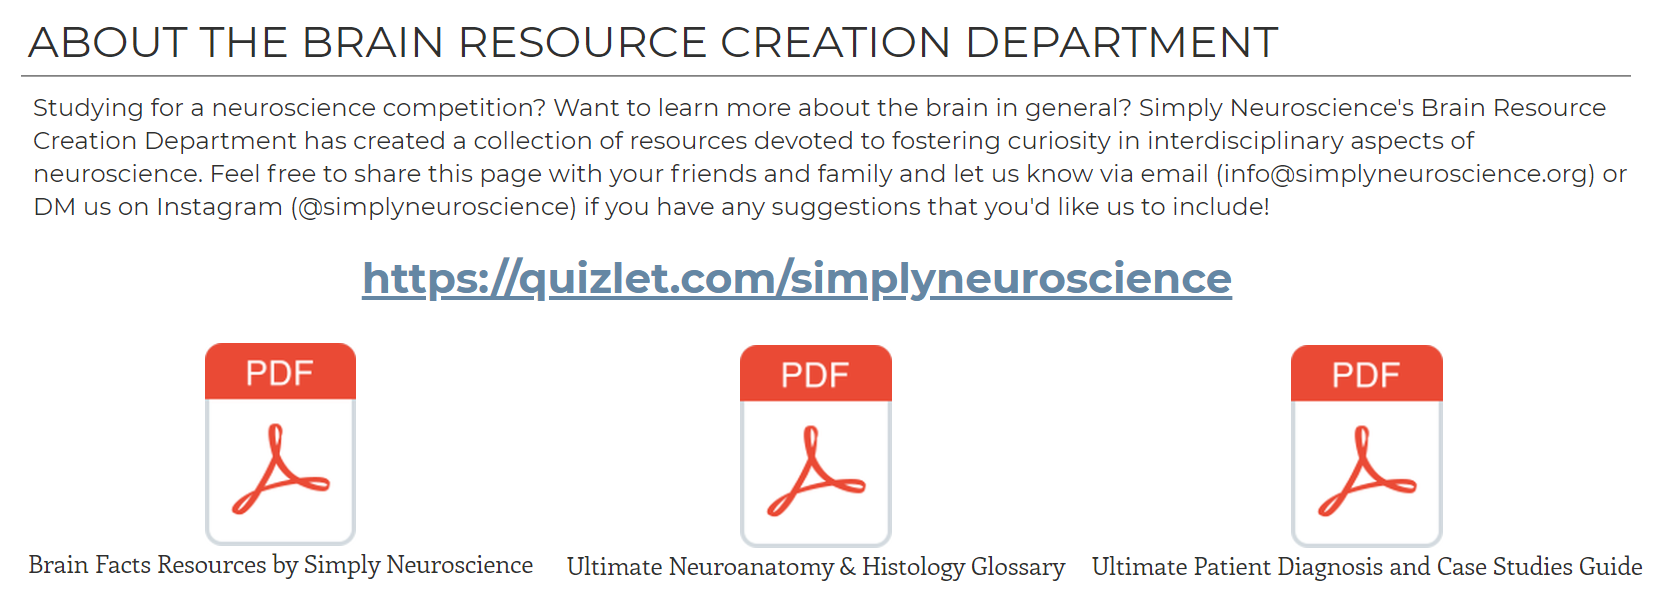
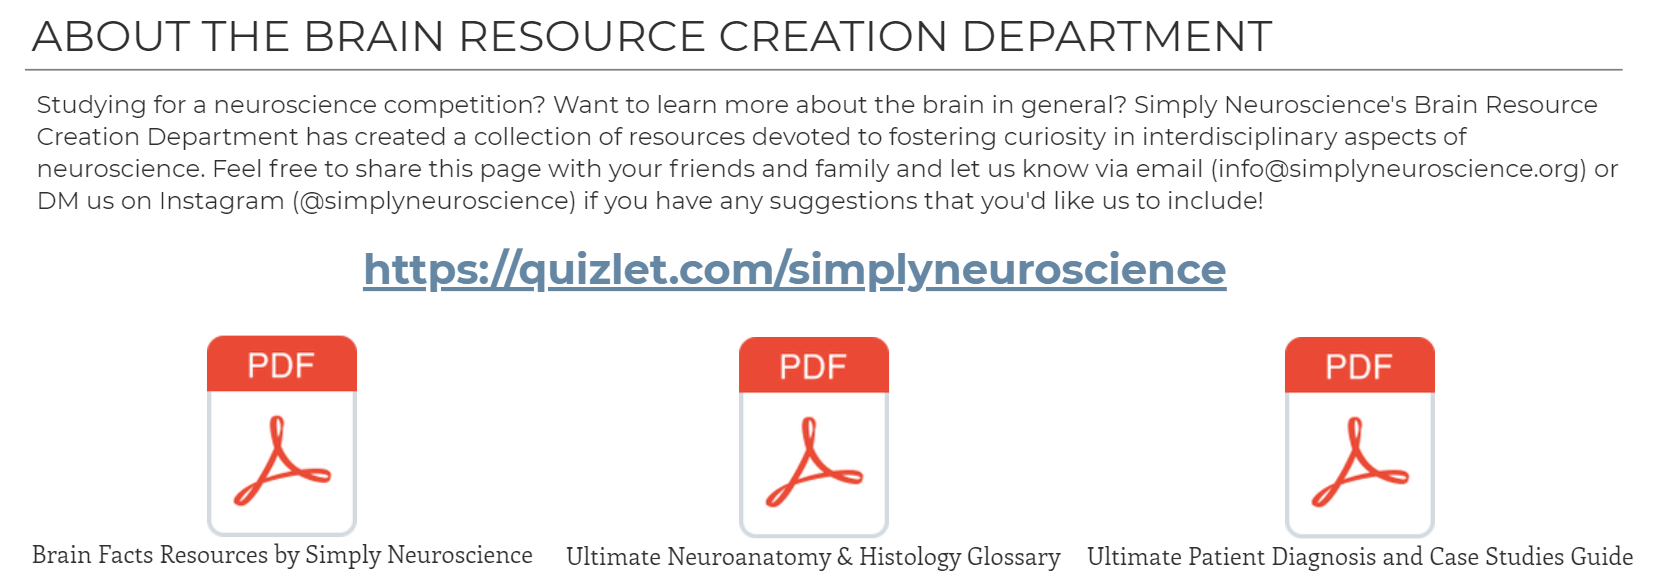
fix images

diff --git a/app/screens/Resources/BSR.js b/app/screens/Resources/BSR.js
@@ -14,16 +14,19 @@ function BSR(){
           <Image
             source={require("../../assets/quizlet.png")}
             style={styles.schedule}
+						resizeMode="contain"
           />
         </TouchableOpacity>
 
         <Image
           source={require("../../assets/brainbuilding.png")}
           style={styles.schedule2}
+					resizeMode="contain"
         />
         <Image
           source={require("../../assets/brainbuildinginfo.png")}
           style={styles.schedule3}
+					resizeMode="contain"
         />
       </ScrollView>
     </View>

diff --git a/app/screens/Resources/LPW.js b/app/screens/Resources/LPW.js
@@ -14,16 +14,19 @@ function LPW(){
           <Image
             source={require("../../assets/psp.png")}
             style={styles.schedule}
+						resizeMode="contain"
           />          
         </TouchableOpacity>
 
         <Image
           source={require("../../assets/ultimateguide.png")}
           style={styles.schedule2}
+					resizeMode="contain"
         />
         <Image
           source={require("../../assets/quiz.png")}
           style={styles.schedule3}
+					resizeMode="contain"
         />
       </ScrollView>
 

diff --git a/app/screens/Resources/WWR.js b/app/screens/Resources/WWR.js
@@ -14,6 +14,7 @@ function WWR(){
           <Image
             source={require("../../assets/aboutWWR.png")}
             style={styles.schedule}
+						resizeMode="contain"
           />          
         </TouchableOpacity>
 
@@ -21,6 +22,7 @@ function WWR(){
         <Image
           source={require("../../assets/howtostart.png")}
           style={styles.schedule2}
+					resizeMode="contain"
         />        
       </ScrollView>
 

diff --git a/app/screens/Resources/SCR.js b/app/screens/Resources/SCR.js
@@ -10,10 +10,12 @@ function SCR(){
       <Image
         source={require("../../assets/whatissc.png")}
         style={styles.schedule}
+				resizeMode="contain"
       />
       <Image
         source={require("../../assets/crispr.png")}
         style={styles.schedule2}
+				resizeMode="contain"
       />
       <TouchableOpacity
         onPress={() => Linking.openURL("https://www.instagram.com/thevisualcortexofficial/")}

diff --git a/app/screens/SimplyNeurocon/MoreInformation.js b/app/screens/SimplyNeurocon/MoreInformation.js
@@ -13,6 +13,7 @@ function MoreInformation ({ navigation }){
             <Image
               source={require("../../assets/faq.png")}
               style={styles.schedule2}
+							resizeMode="contain"
             />
             <Image
               source={require("../../assets/ourcollaborators.png")}
